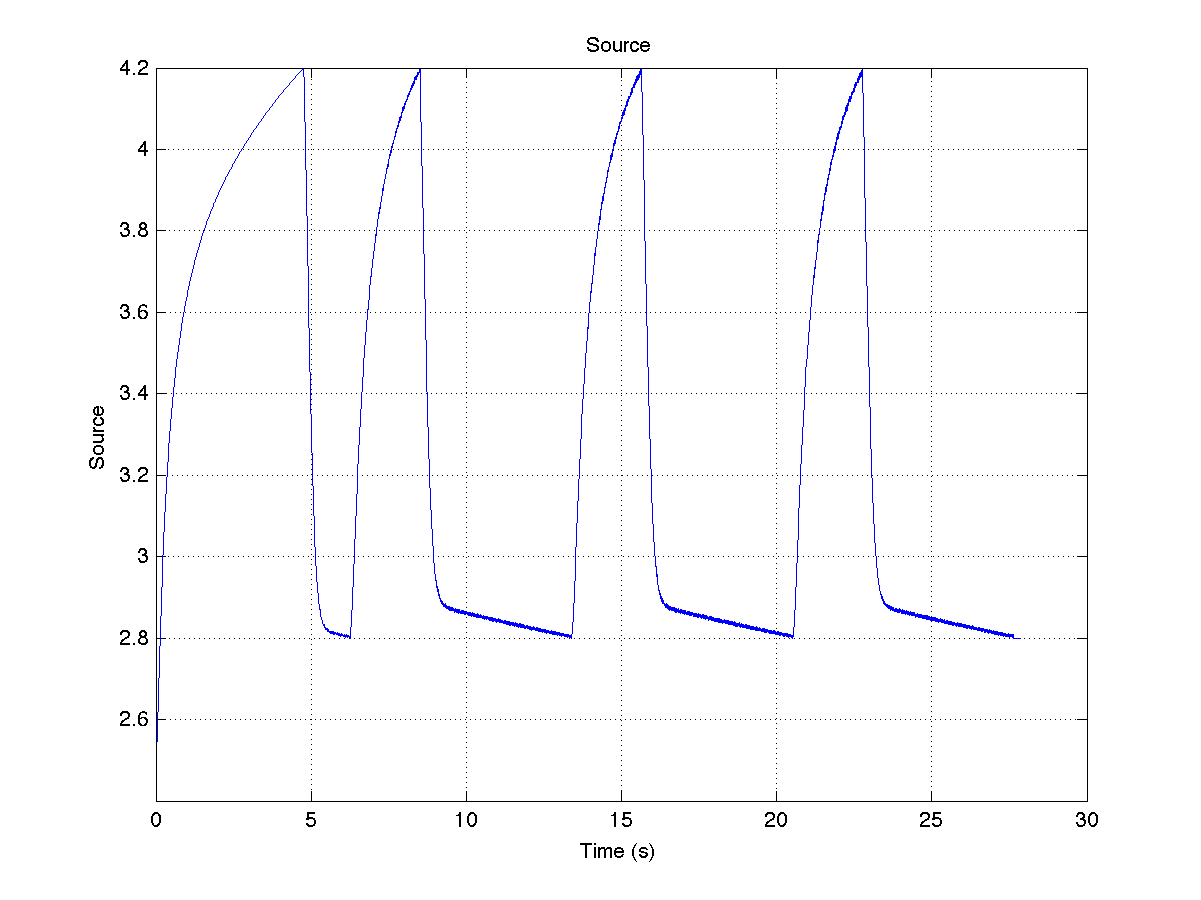
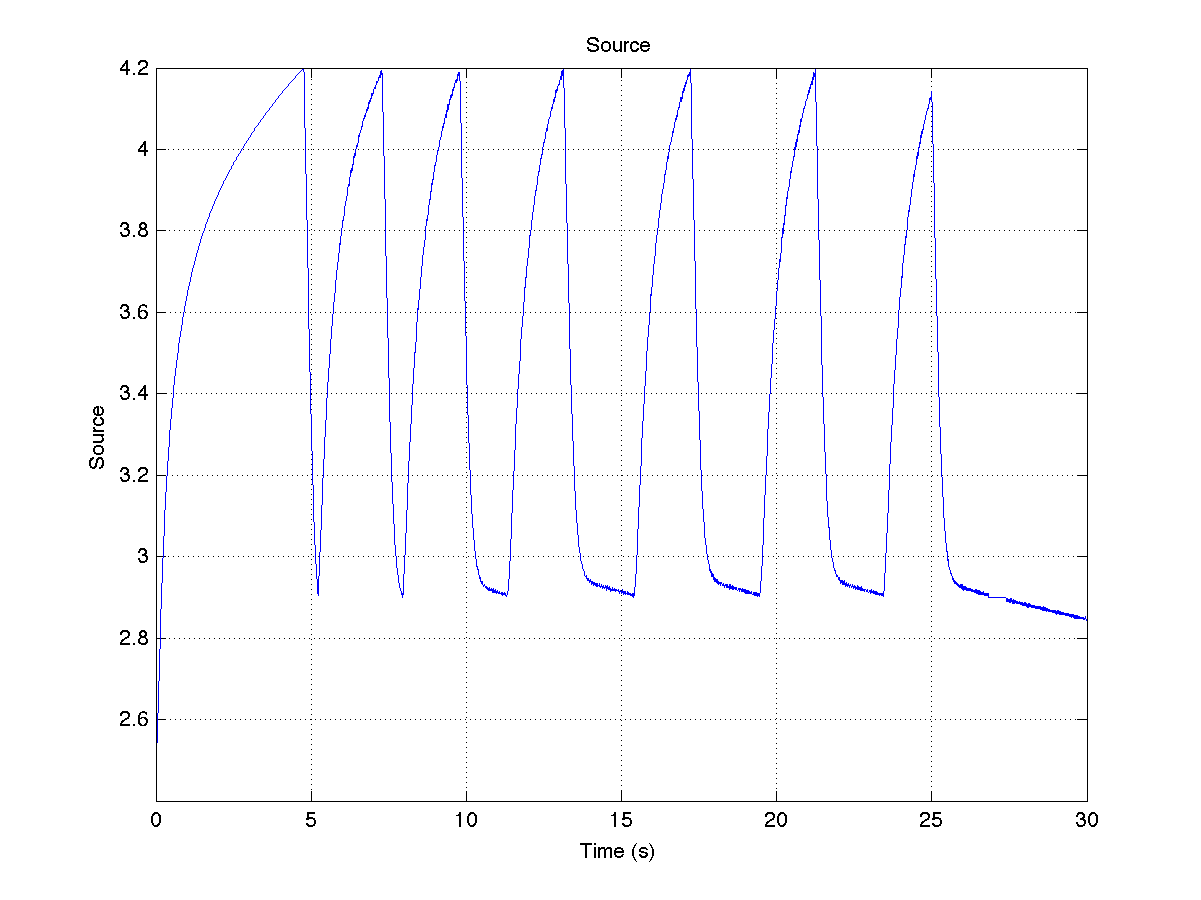
faster TypeI behavior

diff --git a/sims/TypeIBehaviour_Centered.m b/sims/TypeIBehaviour_Centered.m
@@ -8,7 +8,7 @@ resolution = 50e-3;
 tail = 3*resolution;
 
 %Define the switching models
-rOn = 2.8; rOff = 4.2;
+rOn = 2.9; rOff = 4.2;
 switchingModelLocal = TypeIModel(rOn, rOff);
 %switchingModelLocal = LocalAlwaysOffModel;
 
